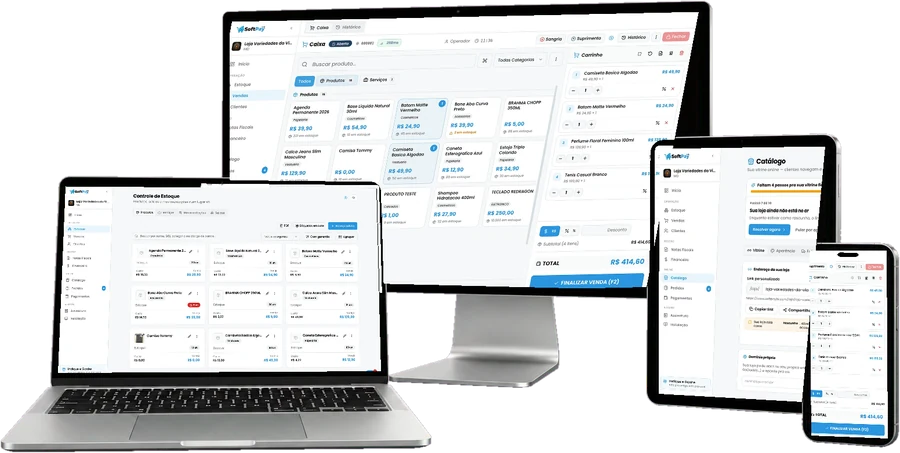
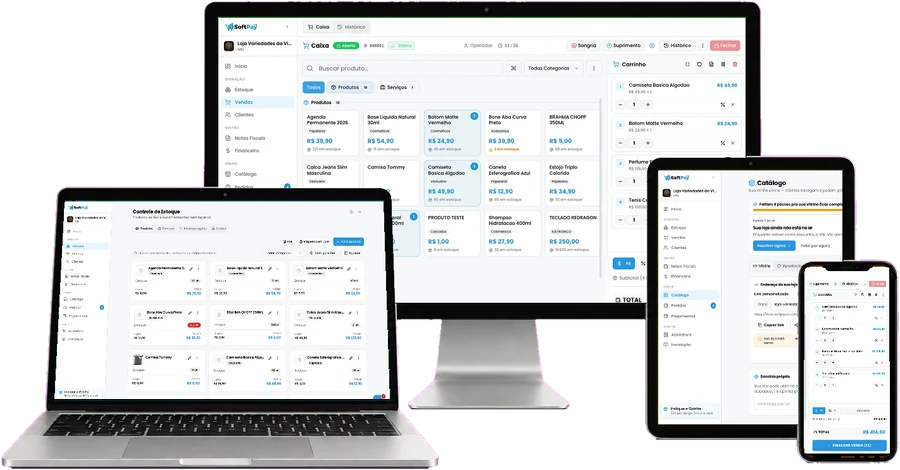
Refaz a peça do hero: uma cor chroma por tela
O Victor mandou o zoom e o defeito estava lá: o menu do sistema aparecia pintado
FORA da moldura do monitor, e uma faixa da tela ficava preta.

A causa era a segmentação. Na primeira versão as quatro telas eram verdes, e as
do monitor e do notebook se tocam na cena — a rotulagem de componentes conexos
não separa os limites com segurança, e o quadrilátero do monitor saiu menor que
a área verde dele. O que ficou de fora virou preto; o que a máscara dilatada
alcançou virou vazamento.

A cena foi refeita com UMA COR POR TELA: verde no monitor, ciano no notebook,
amarelo no tablet, laranja no celular, magenta no fundo. Com isso a segmentação
é direta, sem ambiguidade.

Três coisas que o caminho exige, e que estão escritas em assets-fonte/hero/:

  · Segmentar por MATIZ (HSV), não comparando canais RGB: em RGB o teste do
    amarelo captura também o laranja, e as duas telas viram uma só.
  · Guardar a distância de cada canto até o canto do bounding box. Distância
    grande = canto coberto por outro aparelho, e ele se reconstrói por
    paralelogramo. O monitor tem DOIS cobertos (notebook e tablet): ali a base
    é medida numa coluna livre entre os dois.
  · Limpar o chroma residual SÓ FORA das áreas pintadas. Limpando dentro, some
    o que é verde no próprio sistema — na tentativa anterior o selo "Aberto" do
    caixa virou um borrão. Conferido com zoom: o selo, o logo e o menu lateral
    estão inteiros.
[…]

Changed region(s): [[0.0, 0.0, 1.0, 1.0]]

diff --git a/public/index.html b/public/index.html
@@ -37,7 +37,7 @@
     <link rel="preconnect" href="https://fonts.gstatic.com" crossorigin />
     <link rel="preload" as="image" href="/assets/lojistas/loja-de-roupas.webp?v=7a30b36651" fetchpriority="high" />
     <link rel="preload" as="image" href="/assets/sistema/pdv-celular.webp?v=ee711d3f0c" fetchpriority="high" media="(max-width: 61.99rem)" />
-    <link rel="preload" as="image" href="/assets/aparelhos.webp?v=c2f824dc5f" fetchpriority="high" media="(min-width: 62rem)" />
+    <link rel="preload" as="image" href="/assets/aparelhos.webp?v=0621df5b2c" fetchpriority="high" media="(min-width: 62rem)" />
     <link rel="stylesheet"
         href="https://fonts.googleapis.com/css2?family=Archivo:wdth,wght@62.125,400.900&family=Geist:wght@400.700&display=swap" />
     <link rel="stylesheet" href="sistema.css?v=e588a36508" />
@@ -172,7 +172,7 @@
                          recorte da área que convence. -->
                     <picture>
                         <source media="(min-width: 62rem)"
-                                srcset="/assets/aparelhos-900.webp?v=ba8eee7d27 900w, /assets/aparelhos.webp?v=c2f824dc5f 1500w"
+                                srcset="/assets/aparelhos-900.webp?v=3fb8bfaff0 900w, /assets/aparelhos.webp?v=0621df5b2c 1500w"
                                 sizes="56vw" width="1500" height="755" />
                         <img src="/assets/sistema/pdv-celular.webp?v=ee711d3f0c"
                              width="900" height="786" fetchpriority="high" decoding="async"

diff --git a/assets-fonte/hero/LEIA-ME.md b/assets-fonte/hero/LEIA-ME.md
@@ -1,25 +1,46 @@
 # A família de aparelhos do hero
 
-`aparelhos-chroma.png` é a cena crua: monitor, notebook, tablet e celular, com
-**todas as telas em verde chroma** e o fundo em **magenta**. Gerada no codex em
-17/09/2026, a partir da referência que o Victor mandou (a home da TriboPay).
+`aparelhos-cores.png` é a cena crua: monitor, notebook, tablet e celular, com
+**uma cor chroma diferente em cada tela** e o fundo em magenta. Gerada no codex
+em 17/09/2026, a partir da referência que o Victor mandou (a home da TriboPay).
 
-`aparelhos-corte.png` é o resultado: as capturas REAIS do sistema entraram
-dentro de cada tela por transformação de perspectiva, o fundo magenta virou
-transparente e o esverdeado das bordas foi neutralizado.
+| tela | cor chroma | matiz |
+|---|---|---|
+| monitor | verde `#00FF00` | 95–150 |
+| notebook | ciano `#00FFFF` | 165–200 |
+| tablet | amarelo `#FFFF00` | 45–70 |
+| celular | laranja `#FF8000` | 15–42 |
+| fundo | magenta `#FF00FF` | 280–330 |
 
-## Como refazer (o caminho todo está no histórico desta sessão)
+`aparelhos3.png` é o resultado, com fundo transparente.
 
-1. Detectar as regiões verdes e rotular os componentes conexos.
-2. Para cada região, achar os quatro cantos pelo ponto mais próximo de cada
-   canto do bounding box. **Não use os extremos de (x+y) e (x−y)**: numa tela
-   quase alinhada aos eixos eles devolvem o mesmo canto duas vezes.
-3. A tela do monitor fica parcialmente coberta pelo notebook e pelo tablet, e o
-   canto inferior-esquerdo dela não existe na máscara. Estime por paralelogramo:
-   `bl = tl + (br − tr)`. O que ficar fora da máscara não aparece.
-4. Dilatar a máscara verde ~4px antes de colar: a borda entre a tela e a moldura
-   tem antisserrilhado, e sem dilatar sobra um fio verde em volta de cada tela.
-5. Fundo magenta → alfa; despill do verde e do magenta nas bordas.
+## Por que uma cor por tela
+
+A primeira versão usou verde em todas. **Não funciona**: as telas do monitor e
+do notebook se tocam na cena, a rotulagem de componentes conexos não separa os
+limites com segurança, e a composição vazou — o menu do sistema apareceu pintado
+fora da moldura do monitor. Com uma cor por tela a segmentação é direta e não há
+ambiguidade.
+
+## O caminho, passo a passo
+
+1. Segmentar por **matiz** (HSV), não por comparação de canais RGB: amarelo e
+   laranja se confundem em RGB (o amarelo captura o laranja).
+2. Achar os quatro cantos de cada tela pelo ponto mais próximo de cada canto do
+   bounding box. Guardar a **distância** até esse canto: se for grande, o canto
+   está coberto por outro aparelho.
+3. Reconstruir o canto coberto por paralelogramo (`bl = tl + br − tr`). O
+   monitor tem DOIS cantos cobertos (pelo notebook e pelo tablet): ali a base é
+   medida numa coluna livre, entre os dois.
+4. Compor por transformação de perspectiva, com a tela fonte em 2x o tamanho do
+   destino para não perder nitidez.
+5. Máscara = cor daquela tela, dilatada **2px**, ∩ o quadrilátero. A dilatação
+   tapa o fio de chroma do antisserrilhado; mais que isso e a tela invade a
+   moldura.
+6. Fundo magenta → alfa.
+7. Limpar o chroma que sobrou **só FORA das áreas pintadas**. Limpar dentro
+   apaga o que é verde no próprio sistema — foi assim que o selo "Aberto" do
+   caixa sumiu na segunda tentativa.
 
 ## Que tela vai em cada aparelho
 
